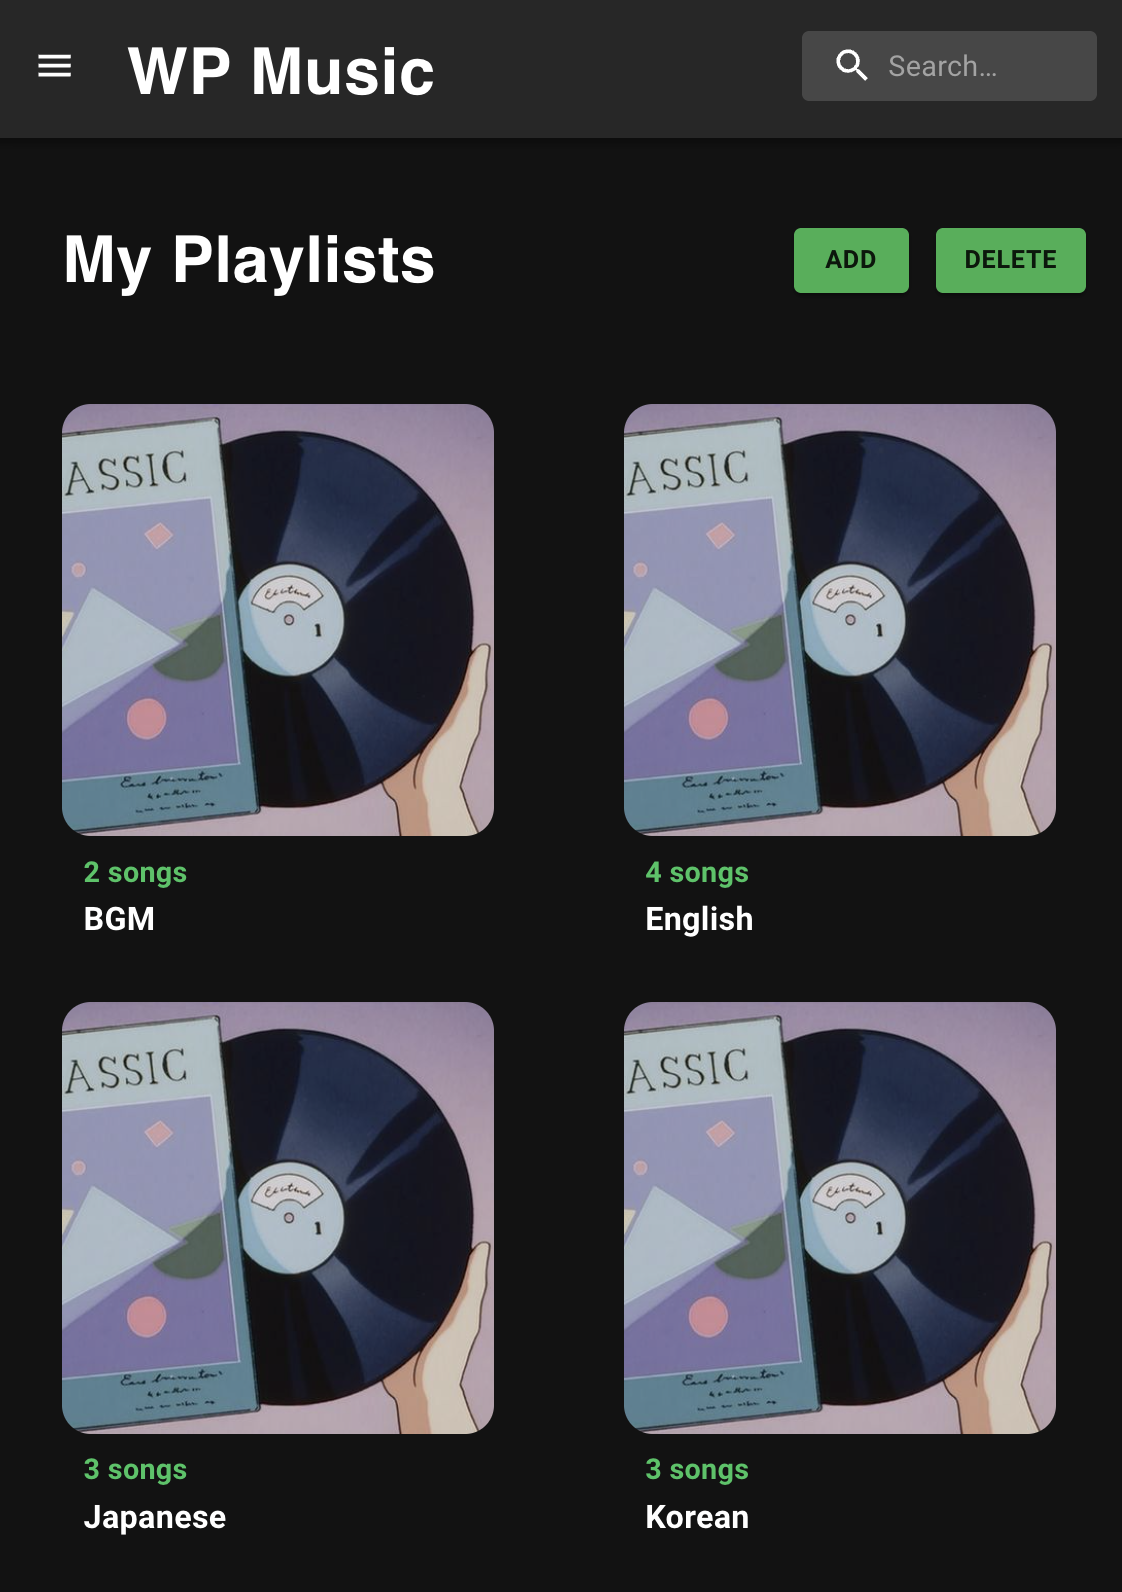
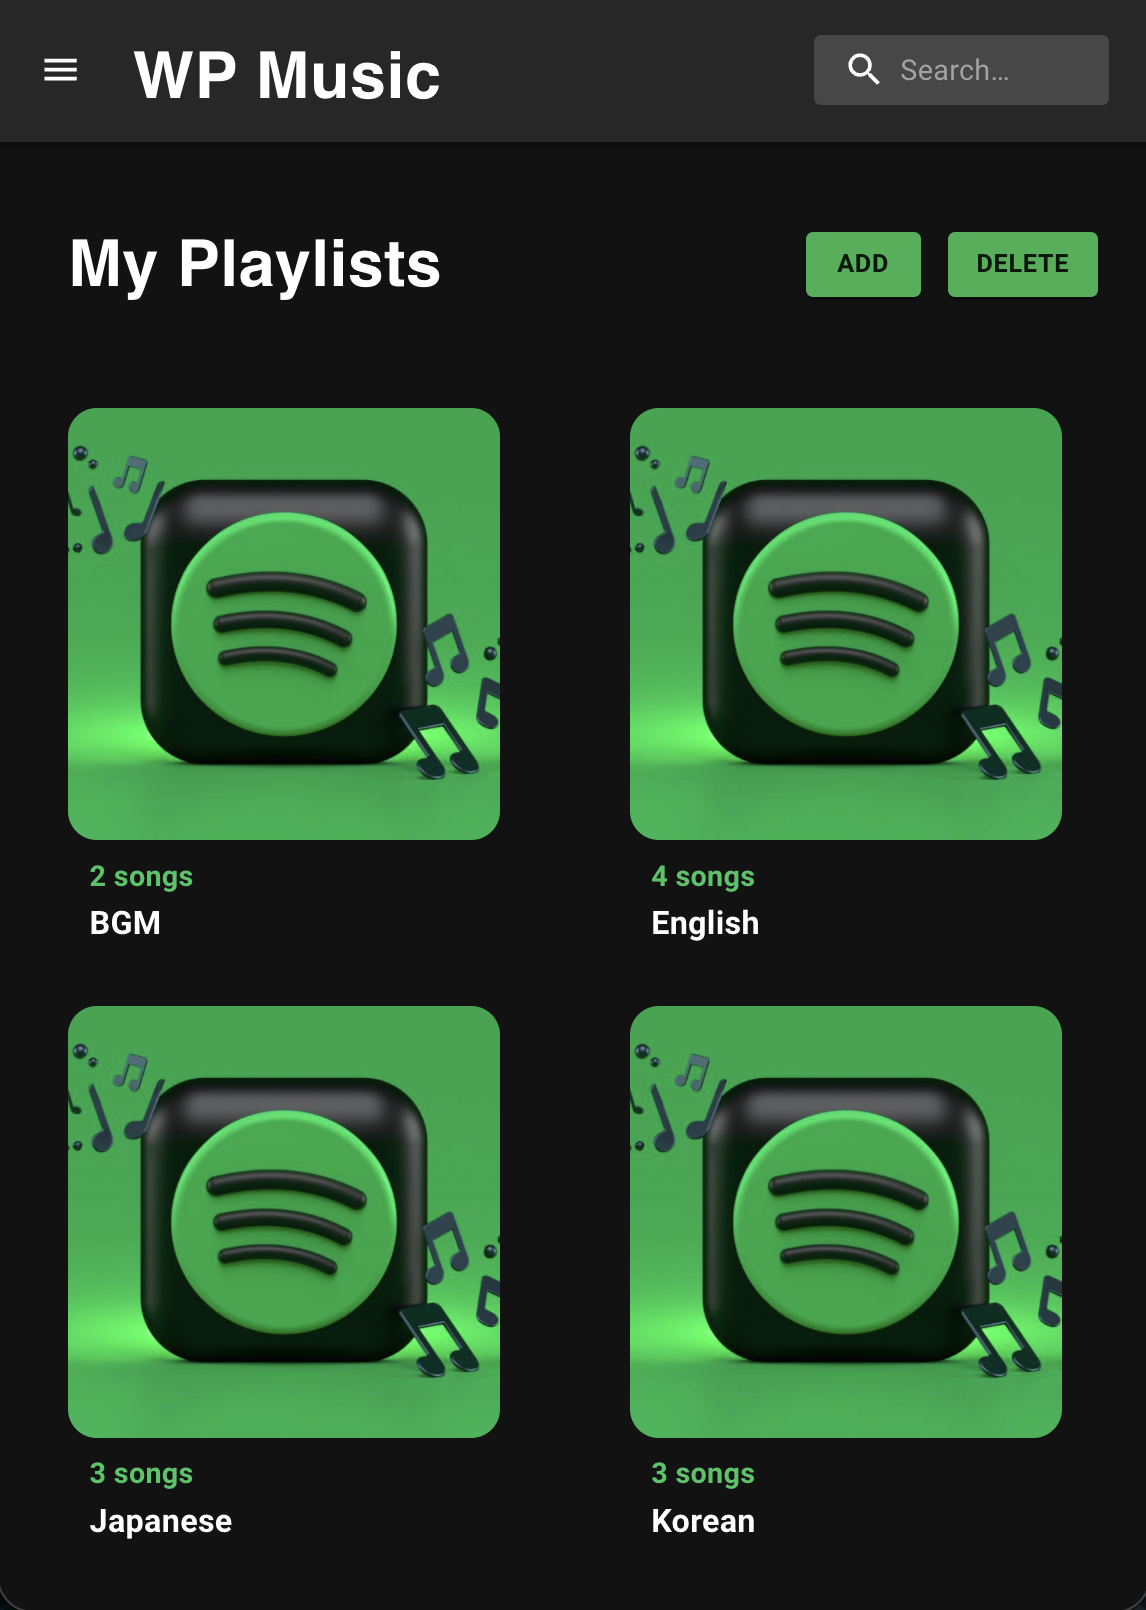
demo photos changed

diff --git a/frontend/src/components/PlaylistDialog.tsx b/frontend/src/components/PlaylistDialog.tsx
@@ -133,7 +133,7 @@ export default function PlaylistDialog(props: PlaylistDialogProps) {
               }}
               className="ml-10 rounded-2xl"
               alt="The Playlist cover"
-              src="https://i.pinimg.com/564x/cf/c9/04/cfc904ede7ec44408ab0a162a20394e3.jpg"
+              src="https://montrealethics.ai/wp-content/uploads/2022/05/alexander-shatov-JlO3-oY5ZlQ-unsplash-768x576.jpg"
             />
             <div className="ml-20 w-full">
               <div className="flex flex-col gap-4">

diff --git a/frontend/src/components/Playlist.tsx b/frontend/src/components/Playlist.tsx
@@ -46,7 +46,7 @@ export default function Playlist({ id, title, description, songs, isButtonActive
             maxWidth: { md: 240, xl: 240 },
           }}
           alt="The Playlist cover"
-          src="https://i.pinimg.com/564x/cf/c9/04/cfc904ede7ec44408ab0a162a20394e3.jpg"
+          src="https://montrealethics.ai/wp-content/uploads/2022/05/alexander-shatov-JlO3-oY5ZlQ-unsplash-768x576.jpg"
           onClick={handleClickOpen}
           className="cursor-pointer rounded-2xl"
         />
